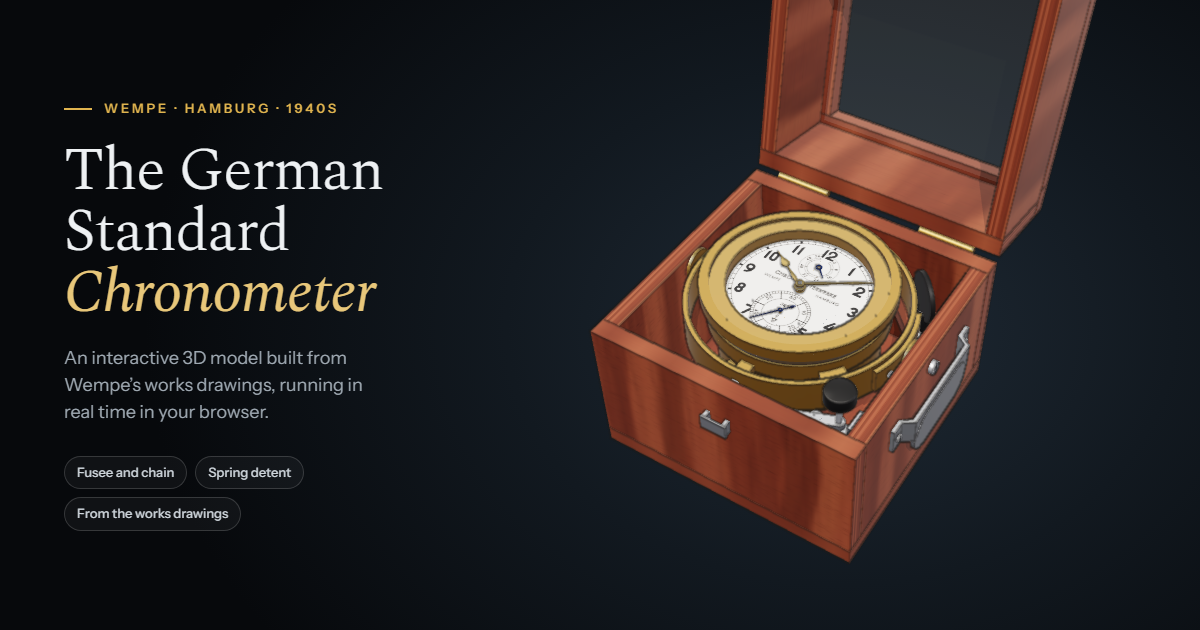
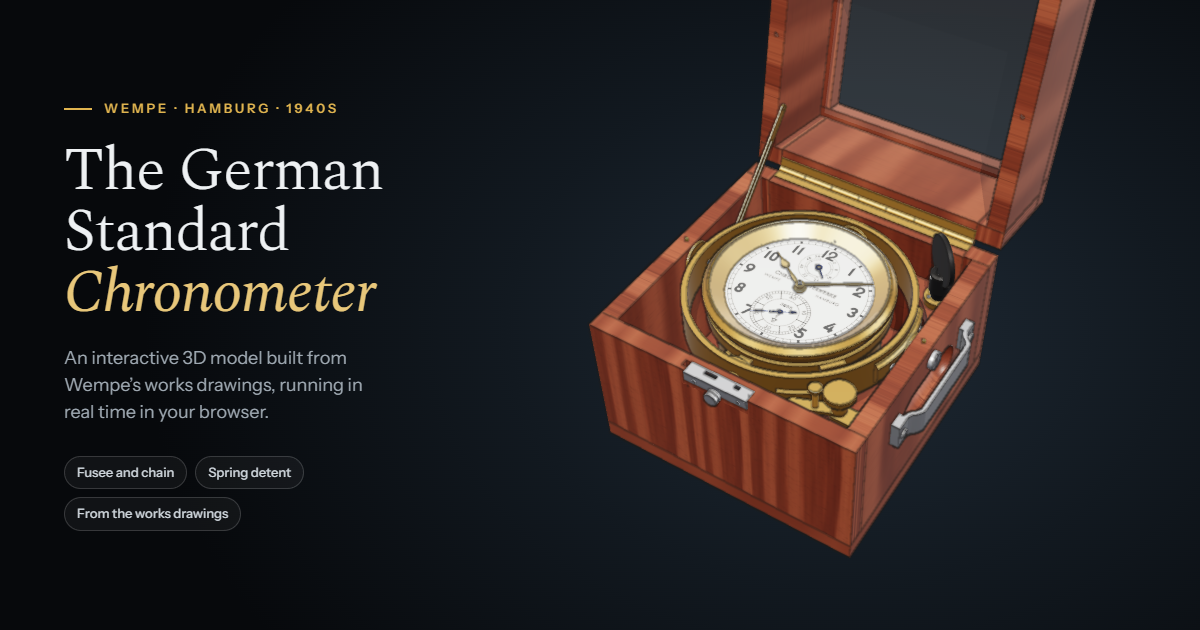
Link previews rendered again: social.py hides the new dock, lets the title wrap, cameras widened for the rescaled Hamilton

diff --git a/marine-chronometer-source/chronometer-working-model/tools/social.py b/marine-chronometer-source/chronometer-working-model/tools/social.py
@@ -15,12 +15,12 @@ PAGE=(HERE.parent/'index.html').as_uri()+'?snap&qa'
 PAGE_WE=(HERE.parents[1]/'wempe'/'index.html').as_uri()+'?snap&qa'   # the Wempe's page, for its preset
 OUTDIR=HERE.parents[2]/'site-assets'
 PRESETS={
- 'dial':dict(out='social.png',view='dial',drive=False,cam=[0.3,1.0,390,32],tod='10:09:36',
+ 'dial':dict(out='social.png',view='dial',drive=False,cam=[0.3,1.0,436,32],tod='10:09:36',
    text=dict(kicker='Hamilton Model 21 · 1941',title='The Marine<br>Chronometer, <em>working</em>',
              sub='An interactive 3D model of a two-day fusee chronometer, running in real time in your browser.',
              tags=['Fusee and chain','Detent escapement','From the 1948 Navy manual'])),
  # the moving parts only: fusee, chain, barrel, train and balance, from low on the train side
- 'movement':dict(out='social-movement.png',view='movement',drive=True,cam=[-0.5,0.55,182,24],tod=None,
+ 'movement':dict(out='social-movement.png',view='movement',drive=True,cam=[-0.5,0.55,240,24],tod=None,
    text=dict(kicker='An interactive essay',title='The Marine<br>Chronometer',
              sub='Longitude, the balance, the fusee and the detent escapement, with live diagrams and a working model.',
              tags=['Longitude','The fusee','The detent'])),
@@ -32,7 +32,7 @@ PRESETS={
 }
 BG='radial-gradient(ellipse 58% 85% at 70% 52%,#1f2a35 0%,#121920 48%,#07090c 100%)'
 # the stage alone, no labels, hints, cards or buttons, over a dark page; with a title, the stage keeps to the right of the text column
-HIDE="header,#panelBtn,#hist,.panel,.hud,.tools,.hint,.labels,.loading,.tabs,.info,.opm,#essay{display:none!important}.wrap{display:block!important;padding:0!important;margin:0!important;max-width:none!important}"
+HIDE="header,.dock,#panelBtn,#hist,.panel,.hud,.tools,.hint,.labels,.loading,.tabs,.info,.opm,#essay{display:none!important}.wrap{display:block!important;padding:0!important;margin:0!important;max-width:none!important}"
 def css(text):
     left='400px' if text else '0'
     return (HIDE+f"html,body{{background:{BG}!important;min-height:100vh}}"
@@ -41,7 +41,7 @@ def css(text):
       "#soc{position:fixed;left:0;top:0;bottom:0;width:430px;padding:0 0 0 64px;display:flex;flex-direction:column;justify-content:center;color:#eef1f3;font-family:'Instrument Sans',system-ui,sans-serif}"
       "#soc .k{font-weight:600;font-size:13px;letter-spacing:.22em;text-transform:uppercase;color:#e0b44f;display:flex;align-items:center;gap:12px}"
       "#soc .k::before{content:'';width:28px;height:1.5px;background:#e0b44f}"
-      "#soc h1{font:300 60px/1.02 Spectral,Georgia,serif;letter-spacing:-.015em;margin:22px 0 20px}#soc h1 em{font-style:italic;font-weight:400;color:#e8c77a}"
+      "#soc h1{font:300 60px/1.02 Spectral,Georgia,serif;white-space:normal;letter-spacing:-.015em;margin:22px 0 20px}#soc h1 em{font-style:italic;font-weight:400;color:#e8c77a}"
       "#soc p{margin:0;max-width:330px;font-size:18px;line-height:1.5;color:#9fa9b2}"
       "#soc .t{display:flex;flex-wrap:wrap;gap:8px;margin-top:30px;max-width:340px}"
       "#soc .t span{font-weight:500;font-size:13px;color:#cfd6dc;border:1px solid rgba(255,255,255,.16);background:rgba(255,255,255,.04);border-radius:999px;padding:6px 12px}")
